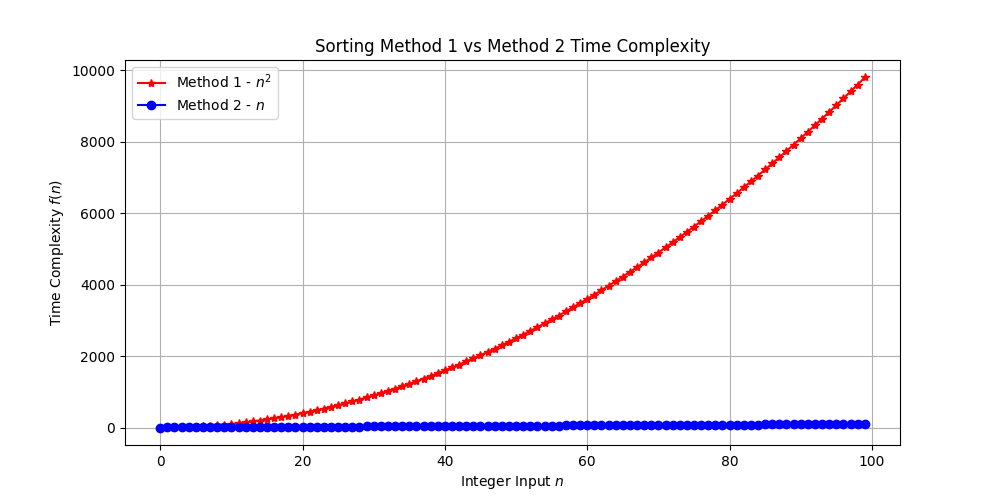
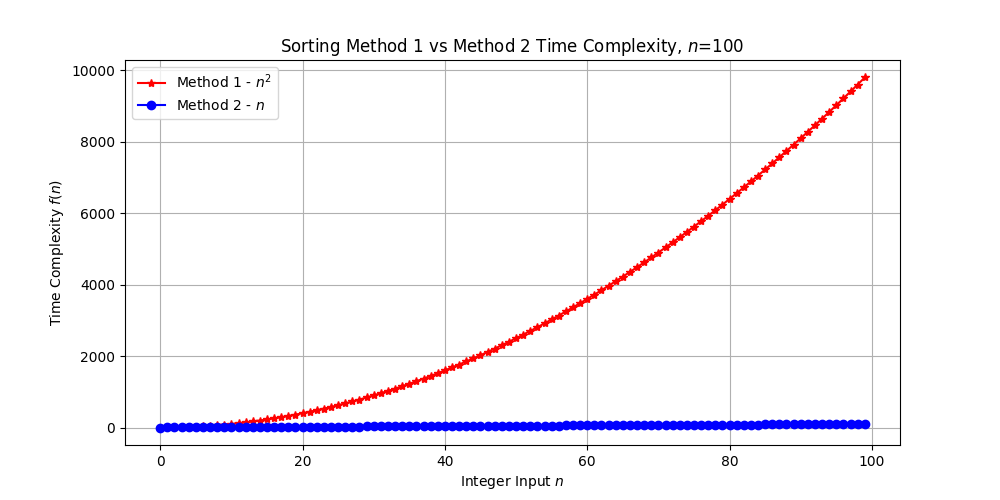
Fixed formatting, finished README

Changed region(s): [[0.279, 0.06, 0.744, 0.12]]

diff --git a/q4_code.py b/q4_code.py
@@ -24,7 +24,8 @@ def methods(n):
     plt.plot()
     plt.xlabel("Integer Input $n{}$")
     plt.ylabel("Time Complexity $f(n){}$")
-    plt.title("Sorting Method 1 vs Method 2 Time Complexity")
+    ntitle = "Sorting Method 1 vs Method 2 Time Complexity, $n$=" + str(n)
+    plt.title(ntitle)
     plt.grid(True)
     plt.plot(x_vals, y_m1, marker='*', linestyle='solid', color='red')
     plt.plot(x_vals, y_m2, marker='o', linestyle='solid', color='blue')
@@ -34,7 +35,6 @@ def methods(n):
     filename = "methods_" + str(n) + ".png"
     plt.savefig(filename)
     plt.show()
-
 
 
 # Extra function plots
@@ -54,7 +54,8 @@ def extras(n):
     plt.figure(figsize=(10,5),num='Other Function Plots')
     plt.xlabel("Integer Input $n{}$")
     plt.ylabel("Time Complexity $f(n){}$")
-    plt.title("Factorial vs Power Function Plot")
+    ntitle = "Factorial vs Power Function Plot, $n$=" + str(n)
+    plt.title(ntitle)
     plt.yscale('log')
     plt.grid(True)
     plt.plot(x_vals, y_fact, marker='*', linestyle='solid', color='red')

diff --git a/README.md b/README.md
@@ -8,10 +8,13 @@ Using matplotlib in Python3, I plotted the time complexity for the sorting metho
 ![Method 1 & 2 Time Complexity for n=100](./methods_100.png)
 ![Method 1 & 2 Time Complexity for n=1000](./methods_1000.png)
 
-These plots make it clear that Method 1 has a much worse time complexity, as n^2 increases exponentially while n increases linearly, and at a long time (as *n* gets bigger), method 2 almost seems like a constant.
+These plots make it clear that Method 1 has a much worse time complexity, as $n^{2}$ increases exponentially while $n$ increases linearly, and at a long time (as *n* gets bigger), Method 2 looks constant compared to Method 1.
 
 ### Factorial and Exponential Analysis
-Similarly to the first part, I plotted n! and 2^n  with matplotlib to view the relationship between them.
+
+Similarly to the first part, I plotted $n!$ and $2^{n}$  with matplotlib to view the relationship between them. Note that here I used log scaling to be able to see the relation better.
+
 ![Extra Functions with n=10](./extras_10.png)
 ![Extra Functions with n=100](./extras_100.png)
-It is clear that n! grows faster than 2^n as *n* gets larger and larger. In fact, I did no t plot these for n=1000 because I got an overflow error when running the code, even as low as n=200 since n! was too big.
+
+Although for very small values of *n*, $n!$ takes less time than $2^{n}$, it is clear that $n!$ grows faster than $2^{n}$ as *n* gets larger and larger. In fact, I did not plot these for *n*=1000 because I got an integer overflow error when running the code, even as low as *n*=200 since $n!$ was too big (which could be fixed but *n* going up to 100 shows the relationship clearly).
